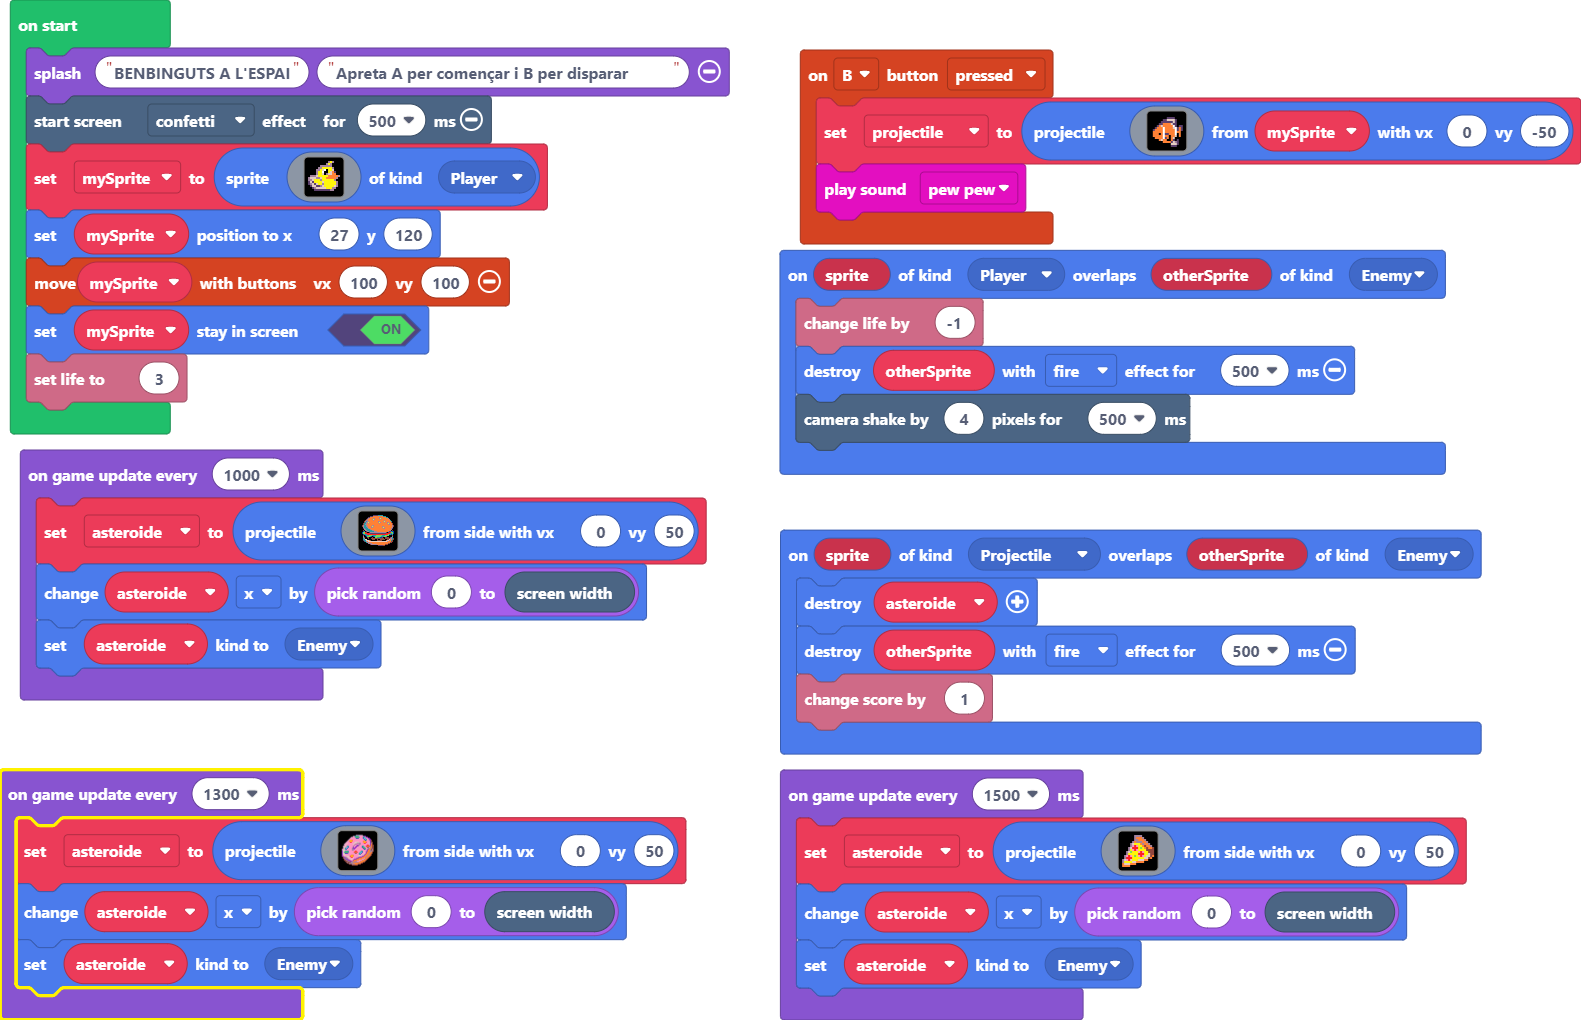
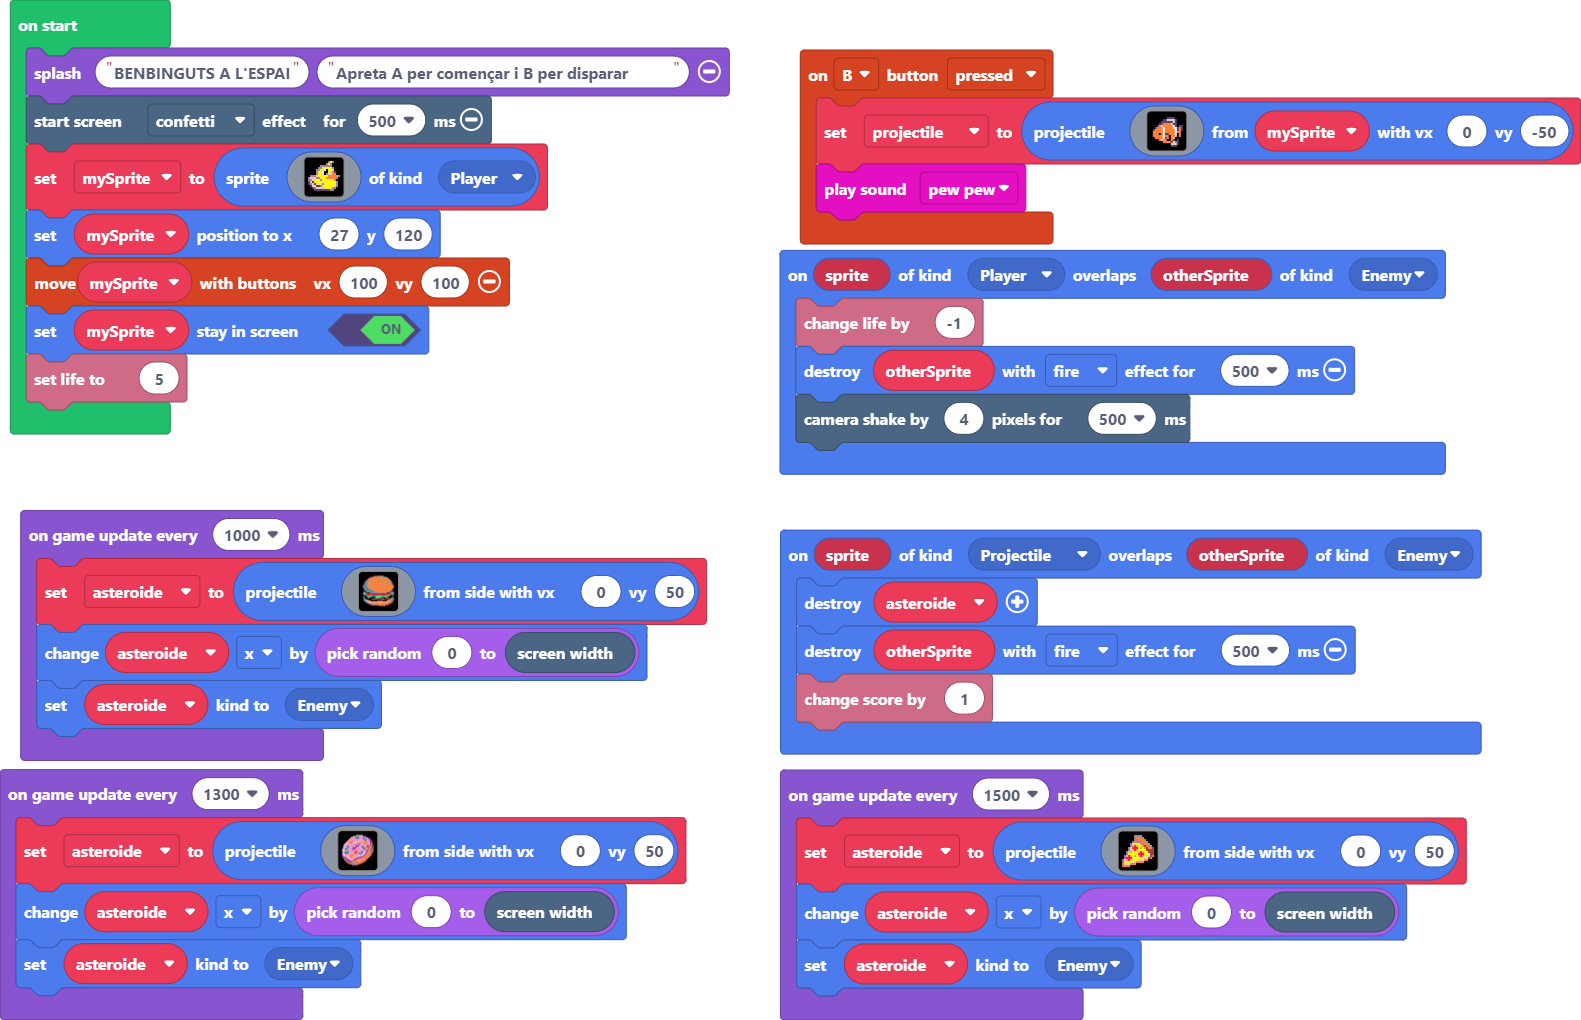
Update main.blocks, main.ts

Changed region(s): [[0.0, 0.4255, 0.4649, 0.7598], [0.0, 0.7902, 0.186, 1.0]]

diff --git a/main.ts b/main.ts
@@ -55,7 +55,7 @@ mySprite = sprites.create(img`
 mySprite.setPosition(27, 120)
 controller.moveSprite(mySprite, 100, 100)
 mySprite.setStayInScreen(true)
-info.setLife(3)
+info.setLife(5)
 game.onUpdateInterval(1300, function () {
     asteroide = sprites.createProjectileFromSide(img`
         ..............bbbbbbb...........
